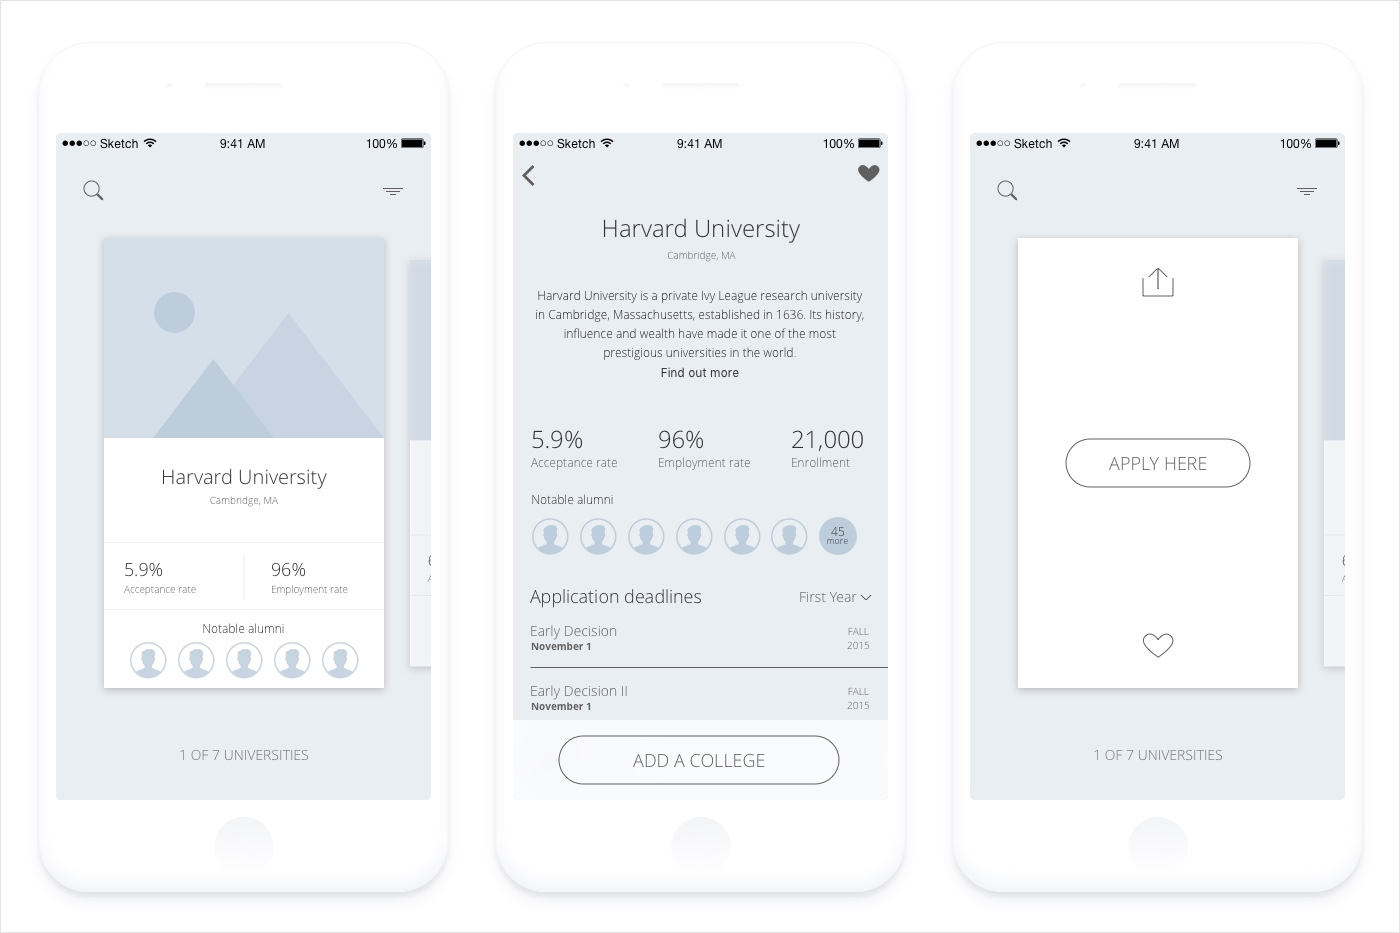
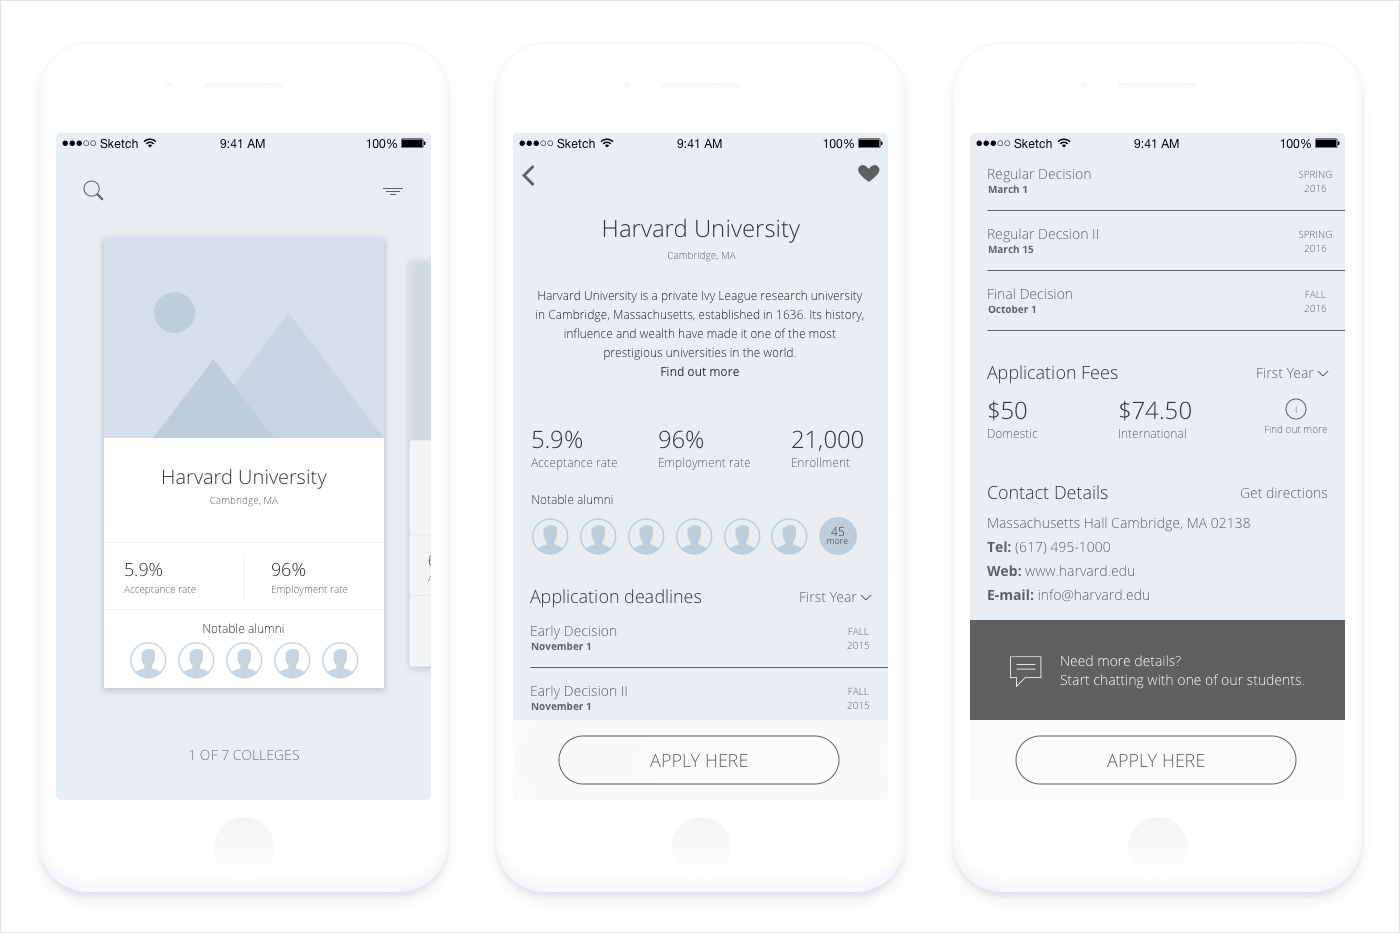
Global updates on the Common App HTML project
the-common-application-the-college-application-experience.html

• Images Folder
••  Update images 14/15/16/
•• Upload new images common-app-17/18/19/20.jpg

• General
•• Update the copy of the "Year" to 2017
•• Update the My Rol copy to "redesign of the iOS app."
•• Add a title to the "Design Challenge" Section - "Create the best mobile experience"
•• Add the Outcome Section
•• Add the Copyright

diff --git a/the-common-application-the-college-application-experience.html b/the-common-application-the-college-application-experience.html
@@ -125,7 +125,7 @@
                     </div>
                     <div class="col-md-3 col-sm-6 col-xs-12 text-center padding-5px-tb alt-font sm-padding-10px-top">
                         <span class="text-extra-dark-gray text-medium display-block font-weight-500">Year</span>
-                        <span class="text-medium-gray">2016</span>
+                        <span class="text-medium-gray">2017</span>
                     </div>
                 </div>
             </div>
@@ -189,7 +189,7 @@
                 <div class="row">
                     <div class="col-md-10 col-sm-12 col-xs-12 wow fadeIn sm-text-left">
                         <span class="alt-font text-small text-deep-pink text-uppercase display-block margin-three-bottom sm-margin-15px-bottom">My Role</span>
-                        <h6 class="alt-font text-extra-light-gray display-inline-block font-weight-300 sm-width-80 sm-center-col xs-width-100">I was the Product Designer on this project responsible for the experience strategy and design of the iOS app. I lead the UX work, producing all major deliverables and presenting these to the client. I worked alongside a distributed UX Designer from our Romania office who focused on visual design, as well as with the client's Product team.</h6>
+                        <h6 class="alt-font text-extra-light-gray display-inline-block font-weight-300 sm-width-80 sm-center-col xs-width-100">I was the Product Designer on this project responsible for the experience strategy and redesign of the iOS app. I lead the UX work, producing all major deliverables and presenting these to the client. I worked alongside a distributed UX Designer from our Romania office who focused on visual design, as well as with the client's Product team.</h6>
                     </div>
                 </div>
             </div>
@@ -201,8 +201,8 @@
                 <div class="row">
                     <div class="col-md-8 col-sm-10 col-xs-12 text-left last-paragraph-no-margin wow fadeInUp">
                         <div class="alt-font text-small text-deep-pink text-uppercase margin-15px-bottom">The Design Challenge</div>
-                        <h4 class="alt-font font-weight-600 text-extra-dark-gray">Add Title to Section</h4>
-                        <p class="alt-font text-large text-medium-gray">The product of the Common Application serves students seeking to make easier for them to submit their applications to multiple colleges. The client wanted us to recreate the same experience for mobile devices. However, we asked ourselves what kind of mobile experience makes sense to the students in today's time?</p>
+                        <h4 class="alt-font font-weight-600 text-extra-dark-gray">Create the best mobile experience</h4>
+                        <p class="alt-font text-large text-medium-gray">The product of The Common Application serves students seeking to make easier for them to submit their applications to multiple colleges. The client wanted us to recreate the same experience for mobile devices. However, we asked ourselves what kind of mobile experience makes sense to the students in today's time?</p>
                     </div>
                 </div>
             </div>
@@ -505,7 +505,7 @@
               </div>
             </div>
         </section>
-        <section class="wow fadeIn">
+        <section class="wow fadeIn no-padding-bottom">
             <div class="container">
                 <div class="row">
                     <div class="col-md-12 center-col text-center margin-35px-bottom xs-margin-15px-bottom xs-no-margin-top wow fadeInUp">
@@ -526,6 +526,94 @@
             </div>
         </section>
         <!-- end journey section -->
+        <!-- start solution section -->
+        <section class="wow fadeIn">
+            <div class="container">
+                <div class="row">
+                    <div class="col-md-8 col-sm-10 col-xs-12 text-left last-paragraph-no-margin wow fadeInUp">
+                        <div class="alt-font text-small text-deep-pink text-uppercase margin-15px-bottom">The Solution</div>
+                        <h4 class="alt-font font-weight-600 text-extra-dark-gray">User Interface Design</h4>
+                        <p class="alt-font text-large text-medium-gray">From the prototype testing, we were able to make a more confident decision to go with the card pagination interaction. We found, through observational testing, that users were able to comprehend the college offerings and liked the simple paging mechanism. The design solution alleviate anxiety while students navigate this complex and foreign system, not add to it.</p>
+                        <p class="alt-font text-large text-medium-gray">In front of the stakeholders, I lead the explanation of the impact that this experience could create not only for their students but also for their customers (colleges). We decided to create an optimized solution for the primary use case which is research, selection, and application.</p>
+                    </div>
+                </div>
+            </div>
+        </section>
+        <section class="wow fadeIn no-padding-top">
+            <div class="container">
+              <div class="row">
+                  <div class="col-md-12 center-col text-center xs-margin-15px-bottom xs-no-margin-top wow fadeInUp">
+                      <blockquote class="alt-font text-left border-color-deep-pink no-margin-top">
+                        <p class="text-large text-medium-gray font-weight-500">Simple search functionality that allows students to control their own destiny, with customized results based on their individual interests and goals.</p>
+                      </blockquote>
+                      <img src="images/commonapp-17.jpg" class="width-100" alt=""/>
+                  </div>
+              </div>
+            </div>
+        </section>
+        <section class="wow fadeIn no-padding-top">
+            <div class="container">
+              <div class="row">
+                  <div class="col-md-12 center-col text-center xs-margin-15px-bottom xs-no-margin-top wow fadeInUp">
+                      <blockquote class="alt-font text-left border-color-deep-pink no-margin-top">
+                        <p class="text-large text-medium-gray font-weight-500">The results feature a unique and engaging interface, along with each college's image, college acceptance and employment rates, and notable alumni.</p>
+                      </blockquote>
+                      <img src="images/commonapp-18.jpg" class="width-100" alt=""/>
+                  </div>
+              </div>
+            </div>
+        </section>
+        <section class="wow fadeIn no-padding-top">
+            <div class="container">
+              <div class="row">
+                  <div class="col-md-12 center-col text-center xs-margin-15px-bottom xs-no-margin-top wow fadeInUp">
+                      <blockquote class="alt-font text-left border-color-deep-pink no-margin-top">
+                        <p class="text-large text-medium-gray font-weight-500">Live chat functionality to obtain feedback, advice, and support from current college students, alumni, and educators.</p>
+                      </blockquote>
+                      <img src="images/commonapp-19.jpg" class="width-100" alt=""/>
+                  </div>
+              </div>
+            </div>
+        </section>
+        <section class="wow fadeIn no-padding">
+            <div class="container">
+              <div class="row">
+                  <div class="col-md-12 center-col text-center xs-margin-15px-bottom xs-no-margin-top wow fadeInUp">
+                      <blockquote class="alt-font text-left border-color-deep-pink no-margin-top">
+                        <p class="text-large text-medium-gray font-weight-500">All college applications are managed all in one place. Easy to see and check recommendations directly from the application view.</p>
+                      </blockquote>
+                      <img src="images/commonapp-20.jpg" class="width-100" alt=""/>
+                  </div>
+              </div>
+            </div>
+        </section>
+        <!-- end solution section -->
+        <!-- start outcome section -->
+        <section class="wow fadeIn">
+            <div class="container">
+                <div class="row">
+                    <div class="col-md-8 col-sm-10 col-xs-12 text-left last-paragraph-no-margin wow fadeInUp">
+                        <div class="alt-font text-small text-deep-pink text-uppercase margin-15px-bottom">The Outcome</div>
+                        <h4 class="alt-font font-weight-600 text-extra-dark-gray">A new product, designed and built with a new process</h4>
+                        <p class="alt-font text-large text-medium-gray">The app was well received within the organization. While it has not yet been released, it has already increased communication within the company by becoming a rallying point for strengthening the internal community.</p>
+                        <p class="alt-font text-large text-medium-gray">Another by-product of this project was that it initialized an iterative agile product design and development process within the organization.</p>
+                    </div>
+                </div>
+            </div>
+        </section>
+        <section class="wow fadeIn no-padding-top">
+            <div class="container">
+              <div class="row equalize xs-equalize-auto">
+                  <!-- start copyright -->
+                  <div class="col-md-4 col-sm-5 col-xs-12 text-left alt-font display-table xs-text-center xs-margin-15px-bottom">
+                      <div class="display-table-cell vertical-align-middle text-medium-gray">
+                          &COPY; 3Pillar Global and The Common Application
+                      </div>
+                  </div>
+                  <!-- end copyright -->
+            </div>
+        </section>
+        <!-- end outcome section -->
         <!-- start project navigation bar section -->
         <section class="wow fadeIn no-padding bg-black">
             <div class="container-fluid">
